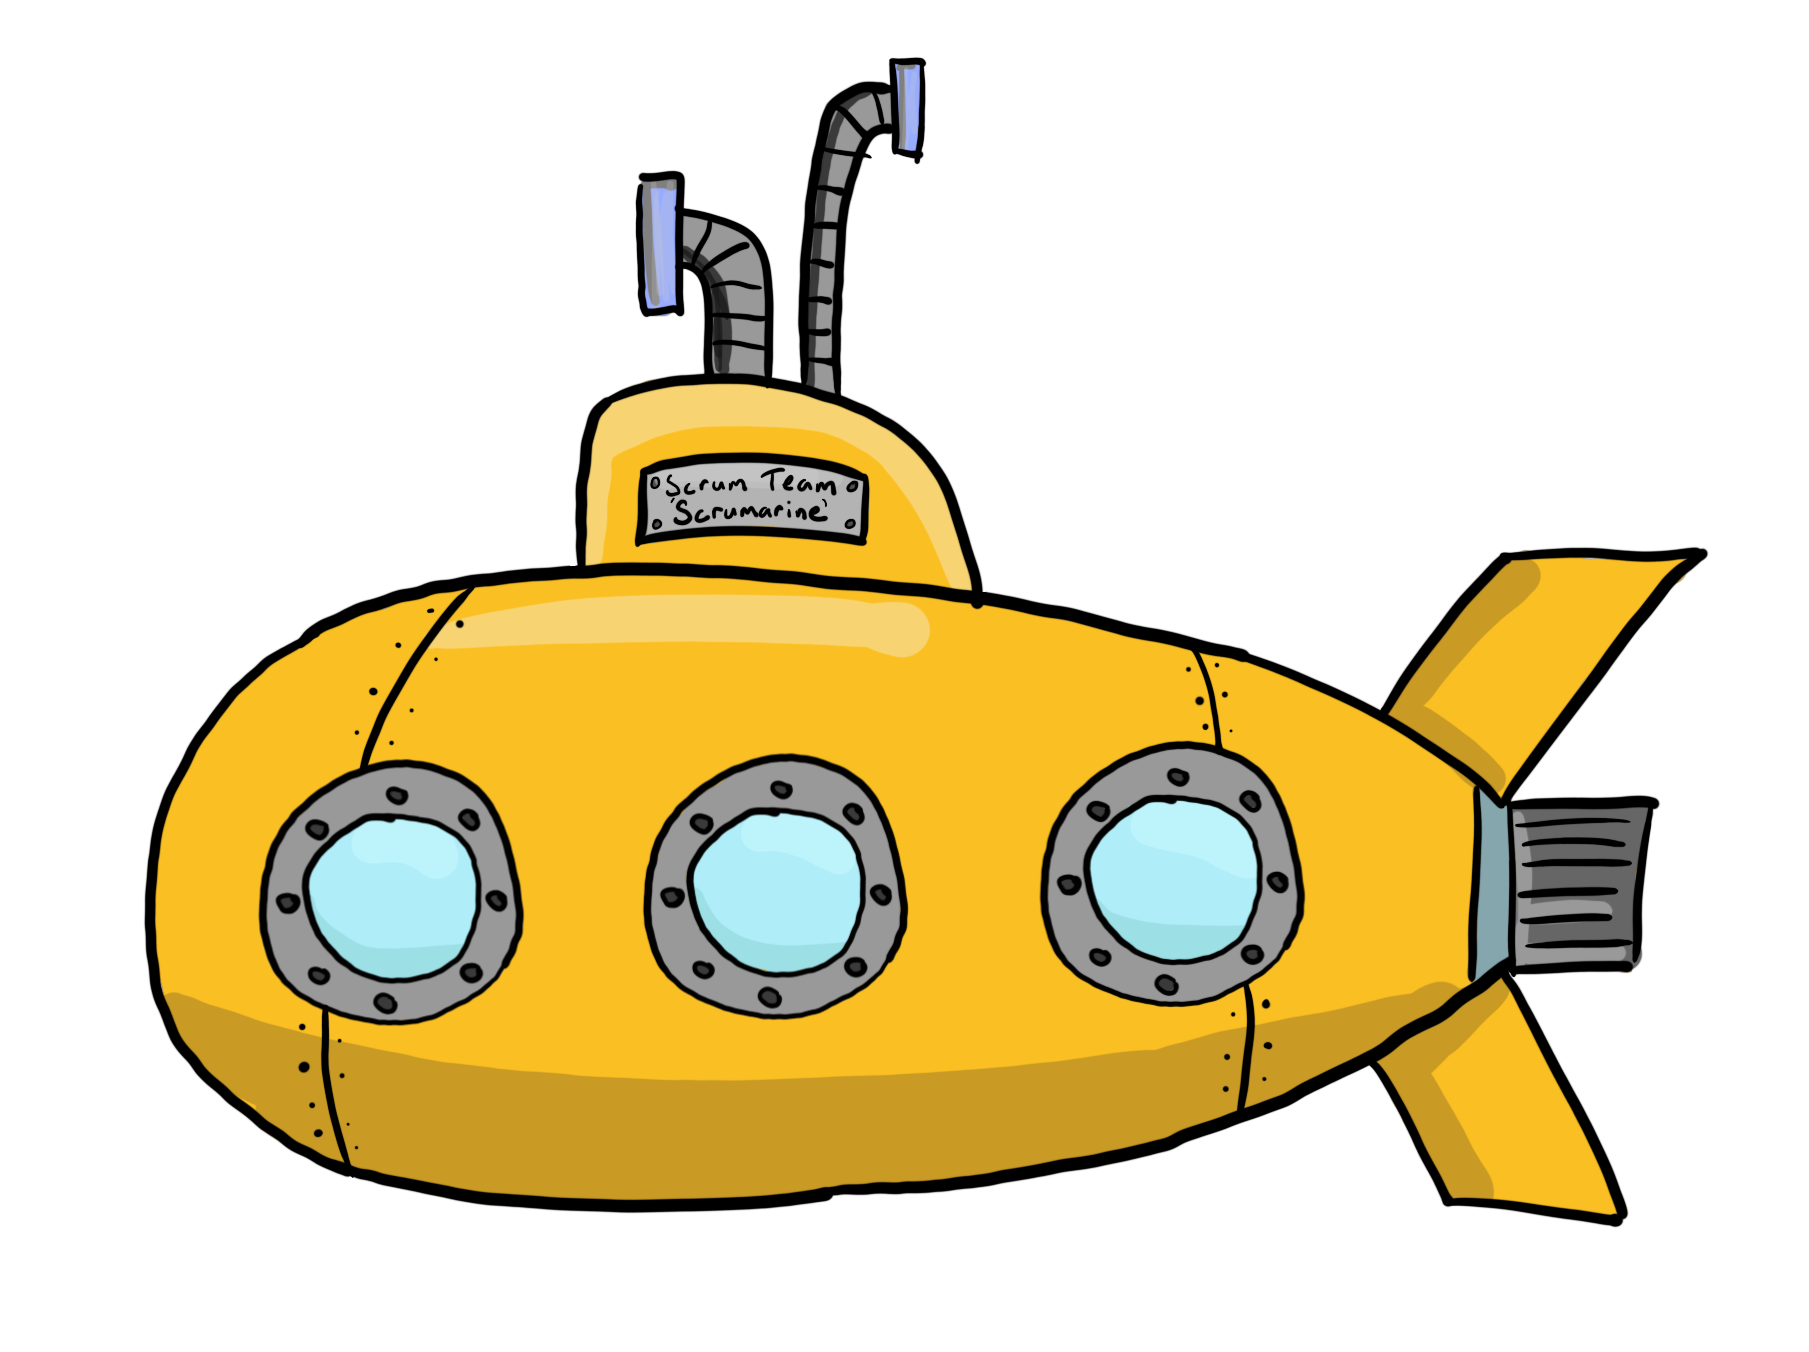
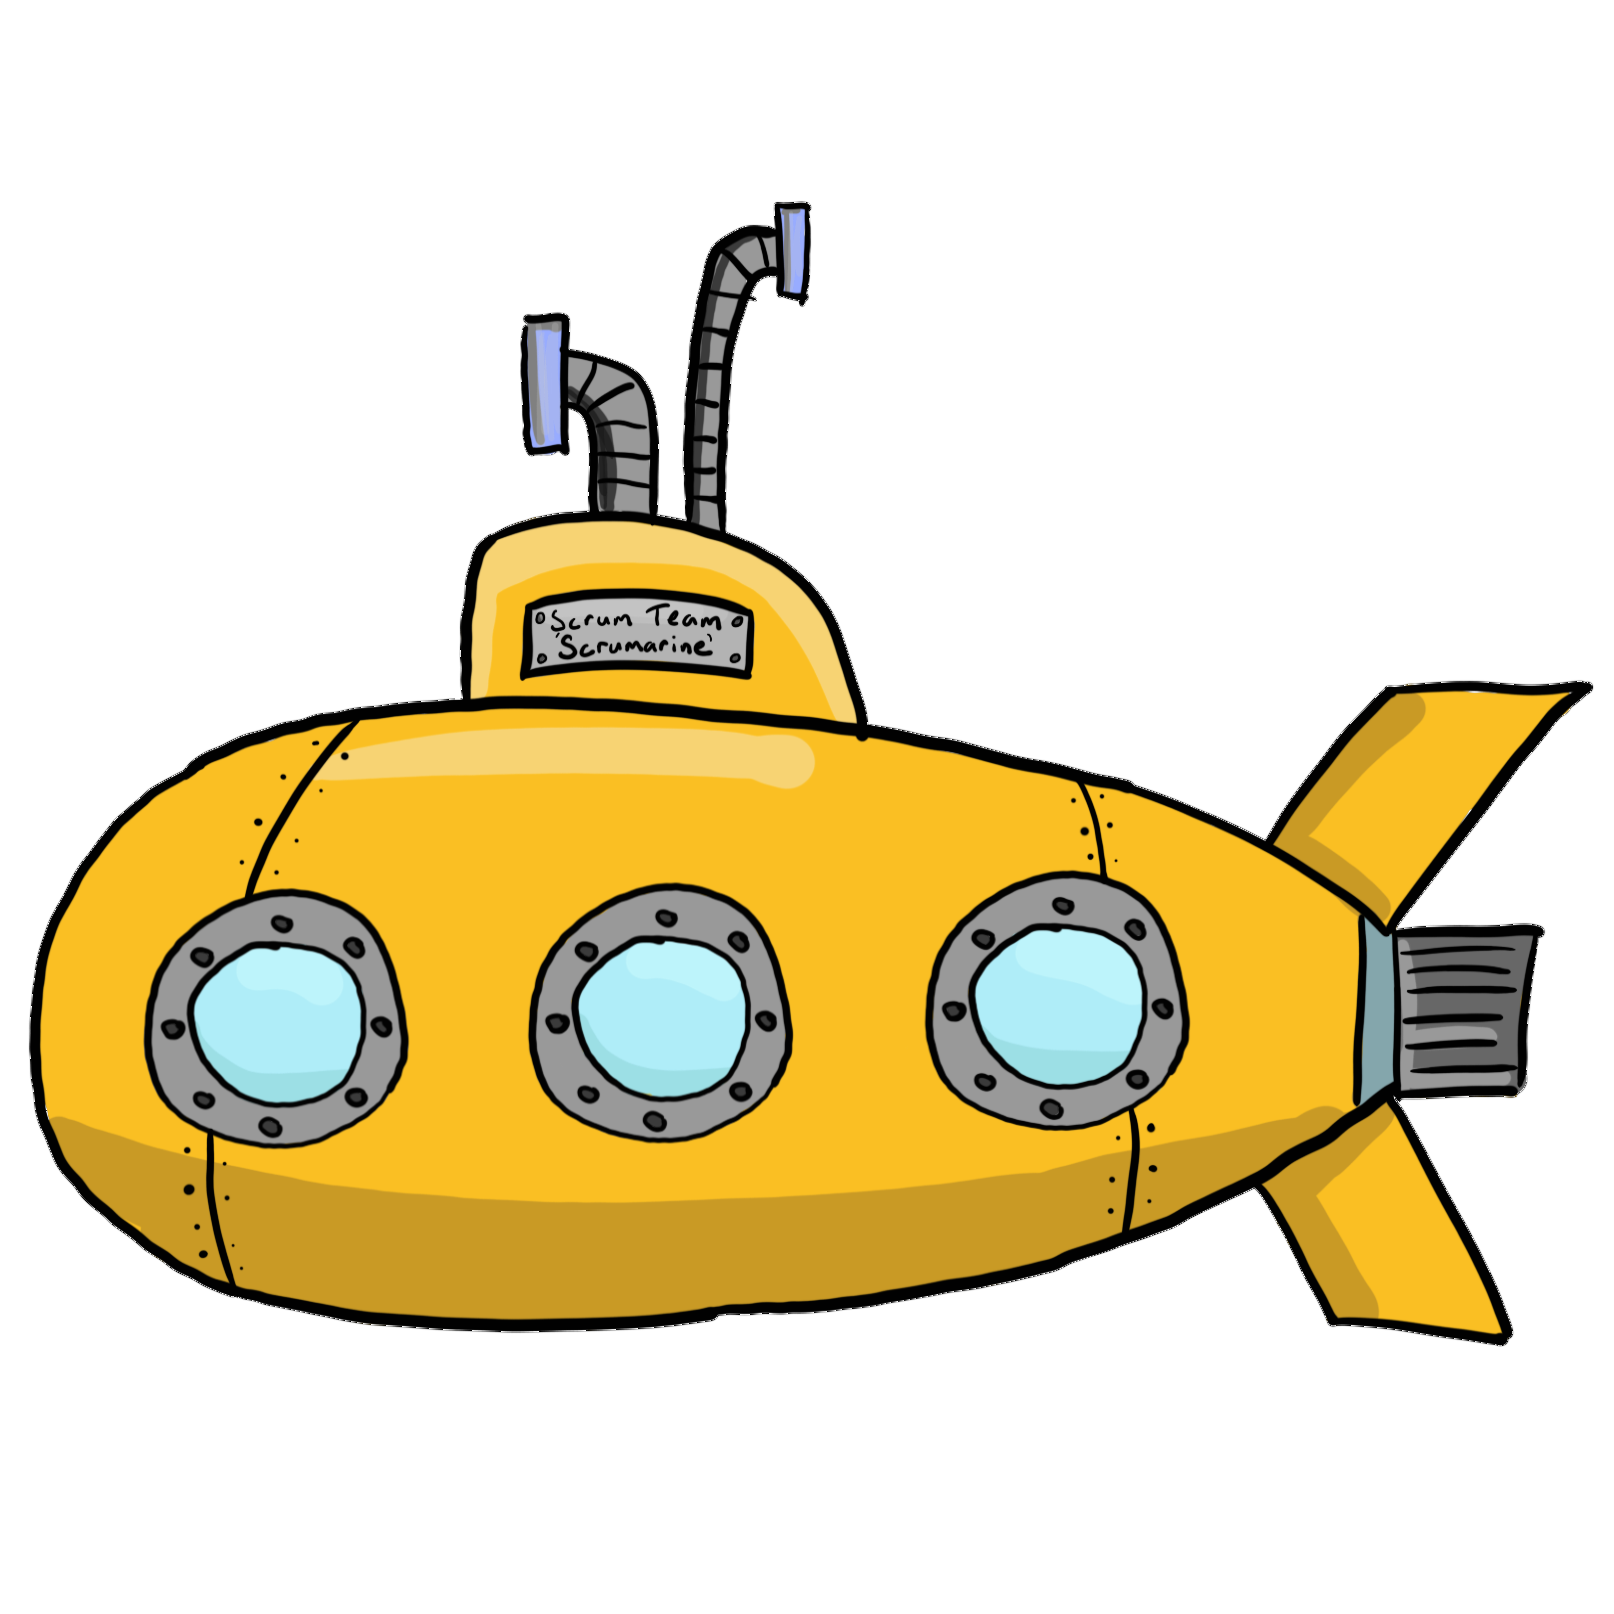
fix up images

Changed region(s): [[0.0, 0.0311, 0.9913, 0.932]]

diff --git a/index.html b/index.html
@@ -52,7 +52,7 @@ description: Co-Creative Scrum Training Workshops using the power of Metaphor
           commodo.</p>
       </div>
       <div class="col-md-5">
-        <img src="images/scrummarine.png" width="500" height="500" at="A Sprint is like the hull of a Ship, it is a container" />
+        <img src="images/ship.png" width="500" height="500" at="A Sprint is like the hull of a Ship, it is a container" />
       </div>
     </div>
 
